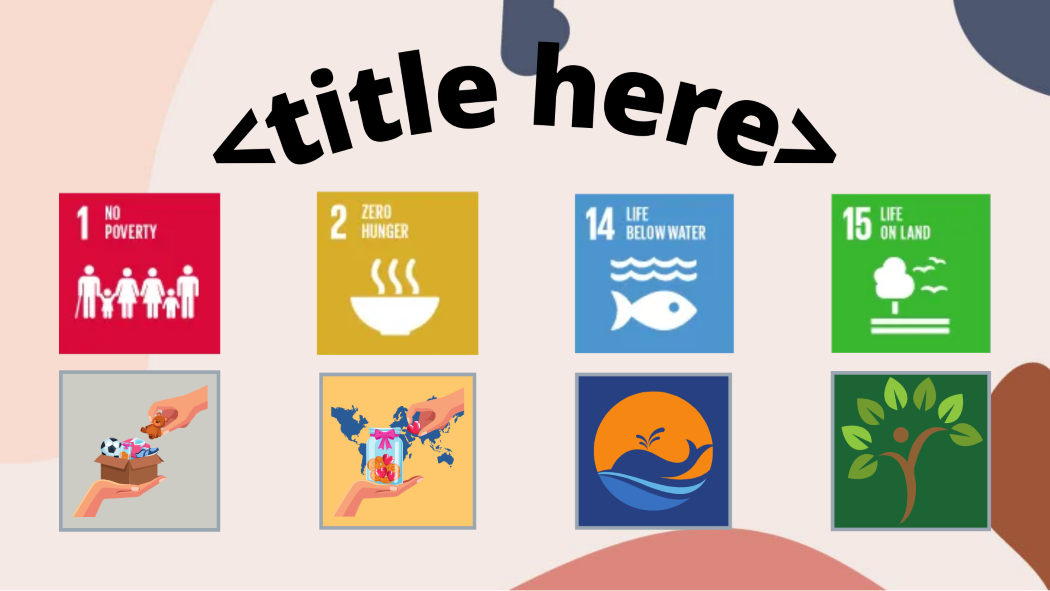
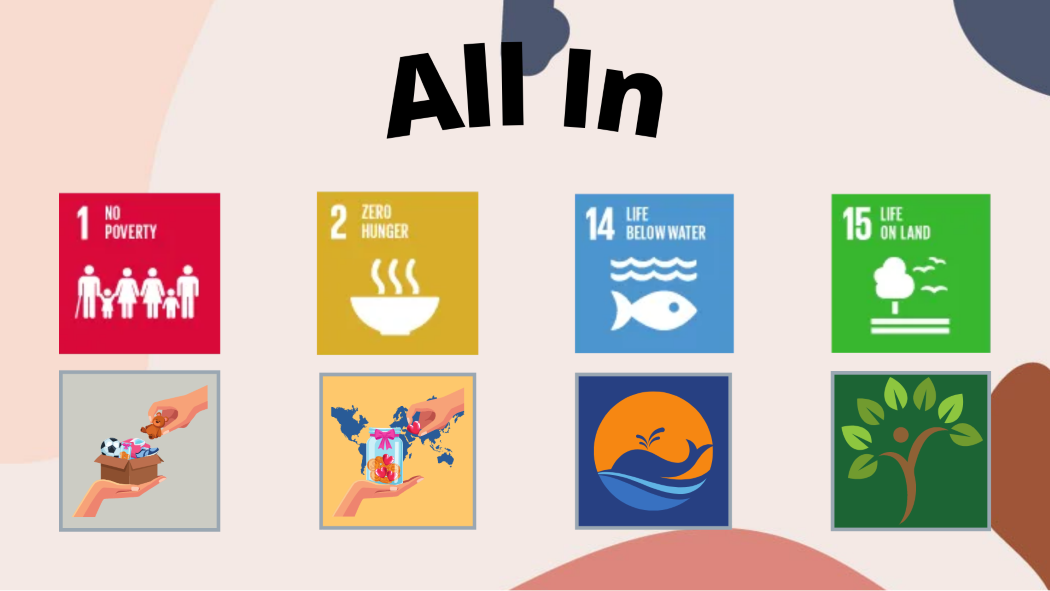
more events + home

Changed region(s): [[0.1829, 0.0609, 0.7924, 0.3046]]

diff --git a/ProgrammingUI/src/home.java b/ProgrammingUI/src/home.java
@@ -15,7 +15,7 @@ public class home
 	};
 	public static String arrayOfSlogans2[] = {
 			"",
-			"Donation? <title here>",
+			"Donation? All In.",
 			"Hong Aik Slogan 2nd Line",
 			"Zi Jie Slogan 2nd Line",
 			"Resilience Tomorrow",
@@ -118,14 +118,14 @@ public class home
 		btnPanel.add(nextPanel);
 		
 		// creating the messages
-		JLabel msg = new JLabel("Hotel? Trivago."); 
+		JLabel msg = new JLabel(arrayOfSlogans[1]); 
 		labelPanel.add(msg);
 		msg.setHorizontalAlignment(JLabel.CENTER);
 		msg.setFont(new Font("Verdana", Font.BOLD, 20));
 		msg.setPreferredSize(new Dimension(1050, 25));
 		
 		// creating messages part 2
-		JLabel msg2 = new JLabel("Donation? <title here>."); 
+		JLabel msg2 = new JLabel(arrayOfSlogans2[1]); 
 		labelPanel.add(msg2);
 		msg2.setHorizontalAlignment(JLabel.CENTER);
 		msg2.setFont(new Font("Verdana", Font.BOLD, 20));

diff --git a/ProgrammingUI/src/merch.java b/ProgrammingUI/src/merch.java
@@ -66,6 +66,10 @@ public class merch {
 		
 		// event handling
 		confirmPanel.addMouseListener(new MouseAdapter() {
+			public void mouseClicked(MouseEvent e)
+			{ 
+				mainFrame.dispatchEvent(new WindowEvent(mainFrame, WindowEvent.WINDOW_CLOSING));
+			}
 			public void mouseEntered(MouseEvent e) 
 			{ 
 				confirm.setFont(new Font("Verdana", Font.BOLD, 12));
@@ -78,6 +82,10 @@ public class merch {
 			}
 		});
 		cancelPanel.addMouseListener(new MouseAdapter() {
+			public void mouseClicked(MouseEvent e)
+			{ 
+				mainFrame.dispatchEvent(new WindowEvent(mainFrame, WindowEvent.WINDOW_CLOSING));
+			}
 			public void mouseEntered(MouseEvent e) 
 			{ 
 				cancel.setFont(new Font("Verdana", Font.BOLD, 12));
